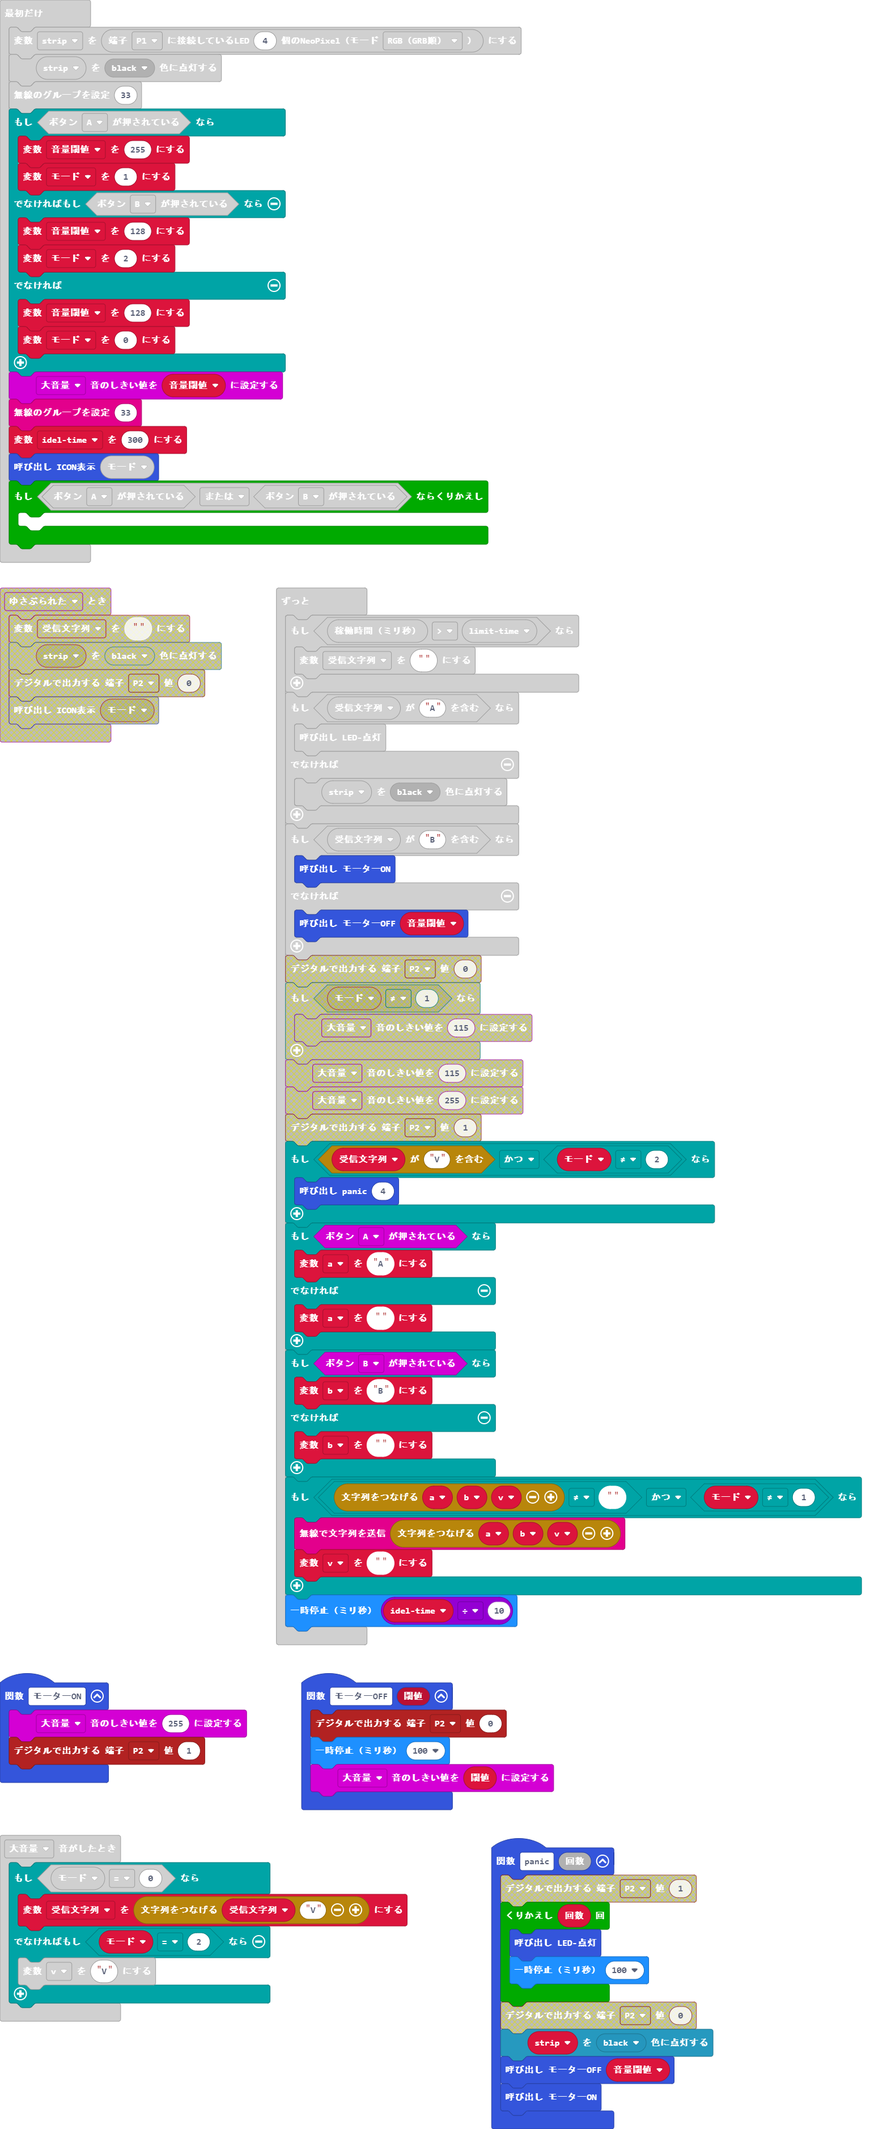
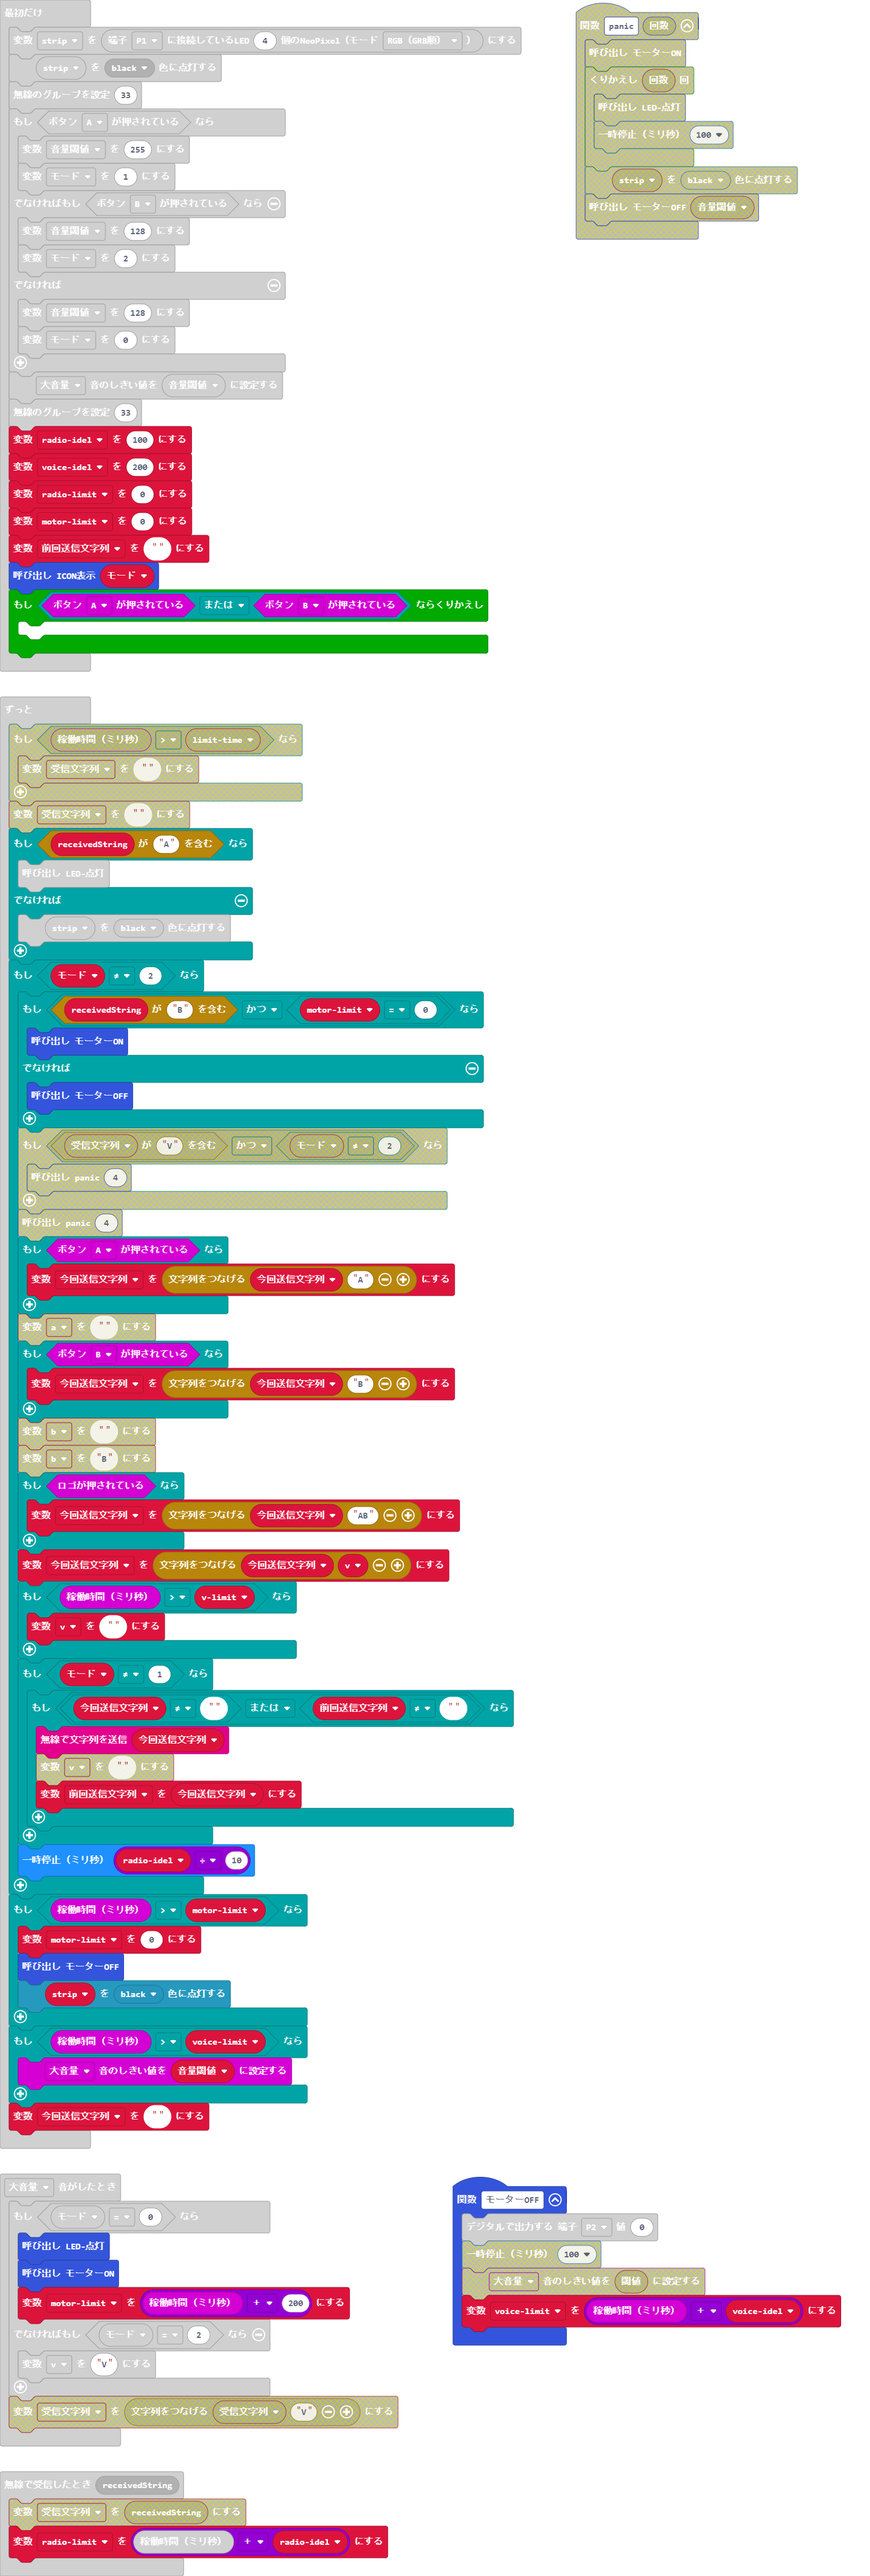
更新 main.blocks, main.ts

diff --git a/main.ts b/main.ts
@@ -39,23 +39,27 @@ function モーターON () {
 }
 input.onSound(DetectedSound.Loud, function () {
     if (モード == 0) {
-        受信文字列 = "" + 受信文字列 + "V"
+        LED点灯()
+        モーターON()
+        motorlimit = input.runningTime() + 200
     } else if (モード == 2) {
         v = "V"
     }
 })
-function panic (回数: number) {
-    モーターON()
-    for (let index = 0; index < 回数; index++) {
-        LED点灯()
-        basic.pause(100)
-    }
-    strip.showColor(neopixel.colors(NeoPixelColors.Black))
-    モーターOFF(音量閾値)
-}
 radio.onReceivedString(function (receivedString) {
-    受信文字列 = receivedString
-    limittime = input.runningTime() + ideltime
+    radiolimit = input.runningTime() + radioidel
+    if (receivedString.includes("A")) {
+        LED点灯()
+    } else {
+        strip.showColor(neopixel.colors(NeoPixelColors.Black))
+    }
+    if (モード != 2) {
+        if (receivedString.includes("B") && motorlimit == 0) {
+            モーターON()
+        } else {
+            モーターOFF()
+        }
+    }
 })
 function LED点灯 () {
     strip.setPixelColor((input.runningTime() / 200 + 0) % 4, neopixel.colors(NeoPixelColors.Red))
@@ -64,17 +68,17 @@ function LED点灯 () {
     strip.setPixelColor((input.runningTime() / 200 + 3) % 4, neopixel.colors(NeoPixelColors.Yellow))
     strip.show()
 }
-function モーターOFF (閾値: number) {
+function モーターOFF () {
     pins.digitalWritePin(DigitalPin.P2, 0)
-    basic.pause(100)
-    input.setSoundThreshold(SoundThreshold.Loud, 閾値)
+    voicelimit = input.runningTime() + voiceidel
 }
-let b = ""
-let a = ""
-let limittime = 0
+let 今回送信文字列 = ""
+let voicelimit = 0
 let v = ""
-let 受信文字列 = ""
-let ideltime = 0
+let motorlimit = 0
+let radiolimit = 0
+let voiceidel = 0
+let radioidel = 0
 let モード = 0
 let 音量閾値 = 0
 let strip: neopixel.Strip = null
@@ -93,41 +97,44 @@ if (input.buttonIsPressed(Button.A)) {
 }
 input.setSoundThreshold(SoundThreshold.Loud, 音量閾値)
 radio.setGroup(33)
-ideltime = 300
+radioidel = 100
+voiceidel = 200
+radiolimit = 0
+motorlimit = 0
+let 前回送信文字列 = ""
 ICON表示(モード)
 while (input.buttonIsPressed(Button.A) || input.buttonIsPressed(Button.B)) {
 	
 }
 basic.forever(function () {
-    if (input.runningTime() > limittime) {
-        受信文字列 = ""
-    }
-    if (受信文字列.includes("A")) {
-        LED点灯()
-    } else {
+    let vlimit = 0
+    if (input.runningTime() > motorlimit) {
+        motorlimit = 0
+        モーターOFF()
         strip.showColor(neopixel.colors(NeoPixelColors.Black))
     }
-    if (受信文字列.includes("B")) {
-        モーターON()
-    } else {
-        モーターOFF(音量閾値)
+    if (input.runningTime() > voicelimit) {
+        input.setSoundThreshold(SoundThreshold.Loud, 音量閾値)
     }
-    if (受信文字列.includes("V") && モード != 2) {
-        panic(4)
-    }
+    今回送信文字列 = ""
     if (input.buttonIsPressed(Button.A)) {
-        a = "A"
-    } else {
-        a = ""
+        今回送信文字列 = "" + 今回送信文字列 + "A"
     }
     if (input.buttonIsPressed(Button.B)) {
-        b = "B"
-    } else {
-        b = ""
+        今回送信文字列 = "" + 今回送信文字列 + "B"
     }
-    if ("" + a + b + v != "" && モード != 1) {
-        radio.sendString("" + a + b + v)
+    if (input.logoIsPressed()) {
+        今回送信文字列 = "" + 今回送信文字列 + "AB"
+    }
+    今回送信文字列 = "" + 今回送信文字列 + v
+    if (input.runningTime() > vlimit) {
         v = ""
     }
-    basic.pause(ideltime / 10)
+    if (モード != 1) {
+        if (今回送信文字列 != "" || 前回送信文字列 != "") {
+            radio.sendString(今回送信文字列)
+            前回送信文字列 = 今回送信文字列
+        }
+    }
+    basic.pause(radioidel / 10)
 })
